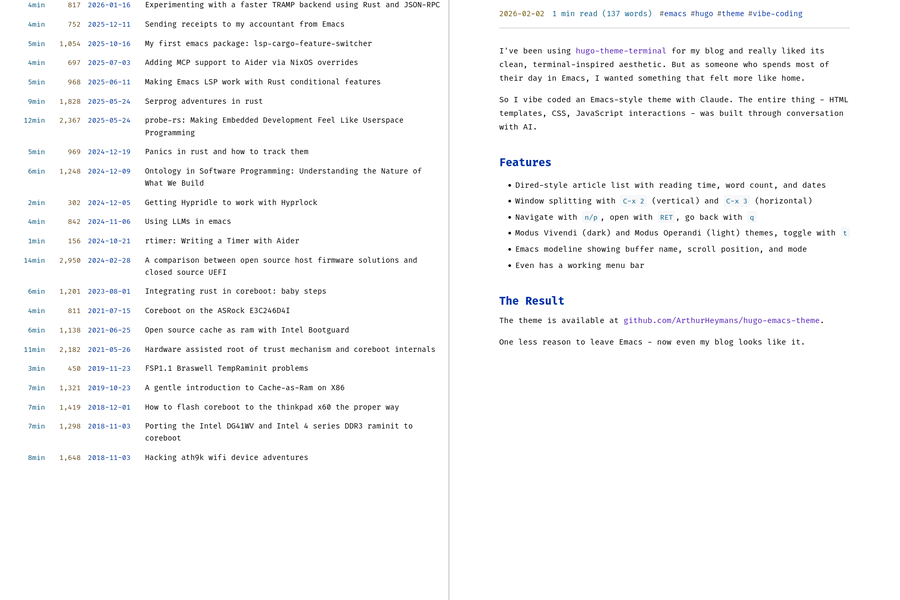
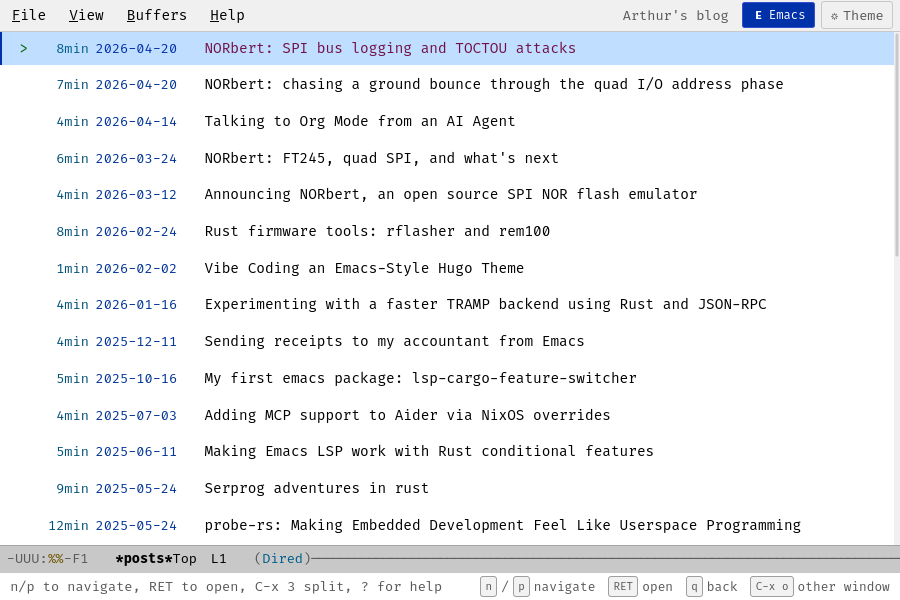
Prepare theme for Hugo gallery submission

diff --git a/layouts/_default/list.html b/layouts/_default/list.html
@@ -17,7 +17,7 @@
     <ul class="article-list" id="article-list" role="listbox" aria-label="{{ .Title }}">
       {{- $pages := .Pages -}}
       {{- if .IsHome -}}
-        {{- $pages = where .Site.RegularPages "Section" "post" -}}
+        {{- $pages = where .Site.RegularPages "Section" "in" (slice "post" "posts") -}}
       {{- end -}}
       {{- range $index, $page := $pages.ByDate.Reverse -}}
       <li class="article-item{{ if eq $index 0 }} selected{{ end }}" 
@@ -97,7 +97,7 @@
 <div id="posts-data" style="display:none;">
   {{- $pages := .Pages -}}
   {{- if .IsHome -}}
-    {{- $pages = where .Site.RegularPages "Section" "post" -}}
+    {{- $pages = where .Site.RegularPages "Section" "in" (slice "post" "posts") -}}
   {{- end -}}
   {{- range $index, $page := $pages.ByDate.Reverse -}}
   <template data-post-index="{{ $index }}" data-post-url="{{ $page.RelPermalink }}">

diff --git a/layouts/index.html b/layouts/index.html
@@ -9,7 +9,7 @@
          tabindex="0">
   <div class="buffer-body">
     <ul class="article-list" id="article-list" role="listbox" aria-label="Articles">
-      {{- $posts := where .Site.RegularPages "Section" "post" -}}
+      {{- $posts := where .Site.RegularPages "Section" "in" (slice "post" "posts") -}}
       {{- range $index, $post := $posts.ByDate.Reverse -}}
       <li class="article-item{{ if eq $index 0 }} selected{{ end }}" 
           role="option"
@@ -68,7 +68,7 @@
 
 {{- /* Hidden container with all post content for JS to use */ -}}
 <div id="posts-data" style="display:none;">
-  {{- $posts := where .Site.RegularPages "Section" "post" -}}
+  {{- $posts := where .Site.RegularPages "Section" "in" (slice "post" "posts") -}}
   {{- range $index, $post := $posts.ByDate.Reverse -}}
   <template data-post-index="{{ $index }}" data-post-url="{{ $post.RelPermalink }}">
     <div class="post-header">

diff --git a/README.md b/README.md
@@ -2,7 +2,7 @@
 
 A Hugo theme that transforms your blog into an Emacs-like experience with buffer management, keyboard navigation, and authentic styling.
 
-![Emacs Hugo Theme Screenshot](images/screenshot.png)
+![Emacs Hugo Theme Screenshot](https://raw.githubusercontent.com/ArthurHeymans/hugo-emacs-theme/main/images/screenshot.png)
 
 ## Features
 
@@ -44,45 +44,45 @@ hugo server -D
 
 ### Navigation (List Buffer)
 
-| Key | Action |
-|-----|--------|
-| `n` / `↓` | Next article |
-| `p` / `↑` | Previous article |
-| `RET` / `o` | Open article |
-| `<` | Beginning of list |
-| `>` | End of list |
+| Key         | Action            |
+| ----------- | ----------------- |
+| `n` / `↓`   | Next article      |
+| `p` / `↑`   | Previous article  |
+| `RET` / `o` | Open article      |
+| `<`         | Beginning of list |
+| `>`         | End of list       |
 
 ### Navigation (Content Buffer)
 
-| Key | Action |
-|-----|--------|
-| `n` / `p` | Scroll down/up (split mode) or next/prev article (single mode) |
-| `↓` / `↑` | Scroll down/up |
-| `PgDn` / `PgUp` | Page down/up |
-| `SPC` / `S-SPC` | Page down/up |
-| `C-v` / `M-v` | Page down/up (Emacs style) |
-| `<` / `>` | Beginning/end of article |
-| `q` | Go back to list |
+| Key             | Action                                                         |
+| --------------- | -------------------------------------------------------------- |
+| `n` / `p`       | Scroll down/up (split mode) or next/prev article (single mode) |
+| `↓` / `↑`       | Scroll down/up                                                 |
+| `PgDn` / `PgUp` | Page down/up                                                   |
+| `SPC` / `S-SPC` | Page down/up                                                   |
+| `C-v` / `M-v`   | Page down/up (Emacs style)                                     |
+| `<` / `>`       | Beginning/end of article                                       |
+| `q`             | Go back to list                                                |
 
 ### Window Management
 
-| Key | Action |
-|-----|--------|
-| `C-x 3` | Split horizontal (side by side) |
-| `C-x 2` | Split vertical (stacked) |
-| `C-x 0` | Close current window |
-| `C-x 1` | Close other windows |
-| `C-x o` / `Tab` | Switch to other window |
+| Key             | Action                          |
+| --------------- | ------------------------------- |
+| `C-x 3`         | Split horizontal (side by side) |
+| `C-x 2`         | Split vertical (stacked)        |
+| `C-x 0`         | Close current window            |
+| `C-x 1`         | Close other windows             |
+| `C-x o` / `Tab` | Switch to other window          |
 
 ### View
 
-| Key | Action |
-|-----|--------|
-| `t` | Toggle dark/light theme |
-| `+` | Increase font size |
-| `-` | Decrease font size |
-| `?` | Show help overlay |
-| `C-g` / `Esc` | Quit/cancel |
+| Key           | Action                  |
+| ------------- | ----------------------- |
+| `t`           | Toggle dark/light theme |
+| `+`           | Increase font size      |
+| `-`           | Decrease font size      |
+| `?`           | Show help overlay       |
+| `C-g` / `Esc` | Quit/cancel             |
 
 ## Theme Customization
 